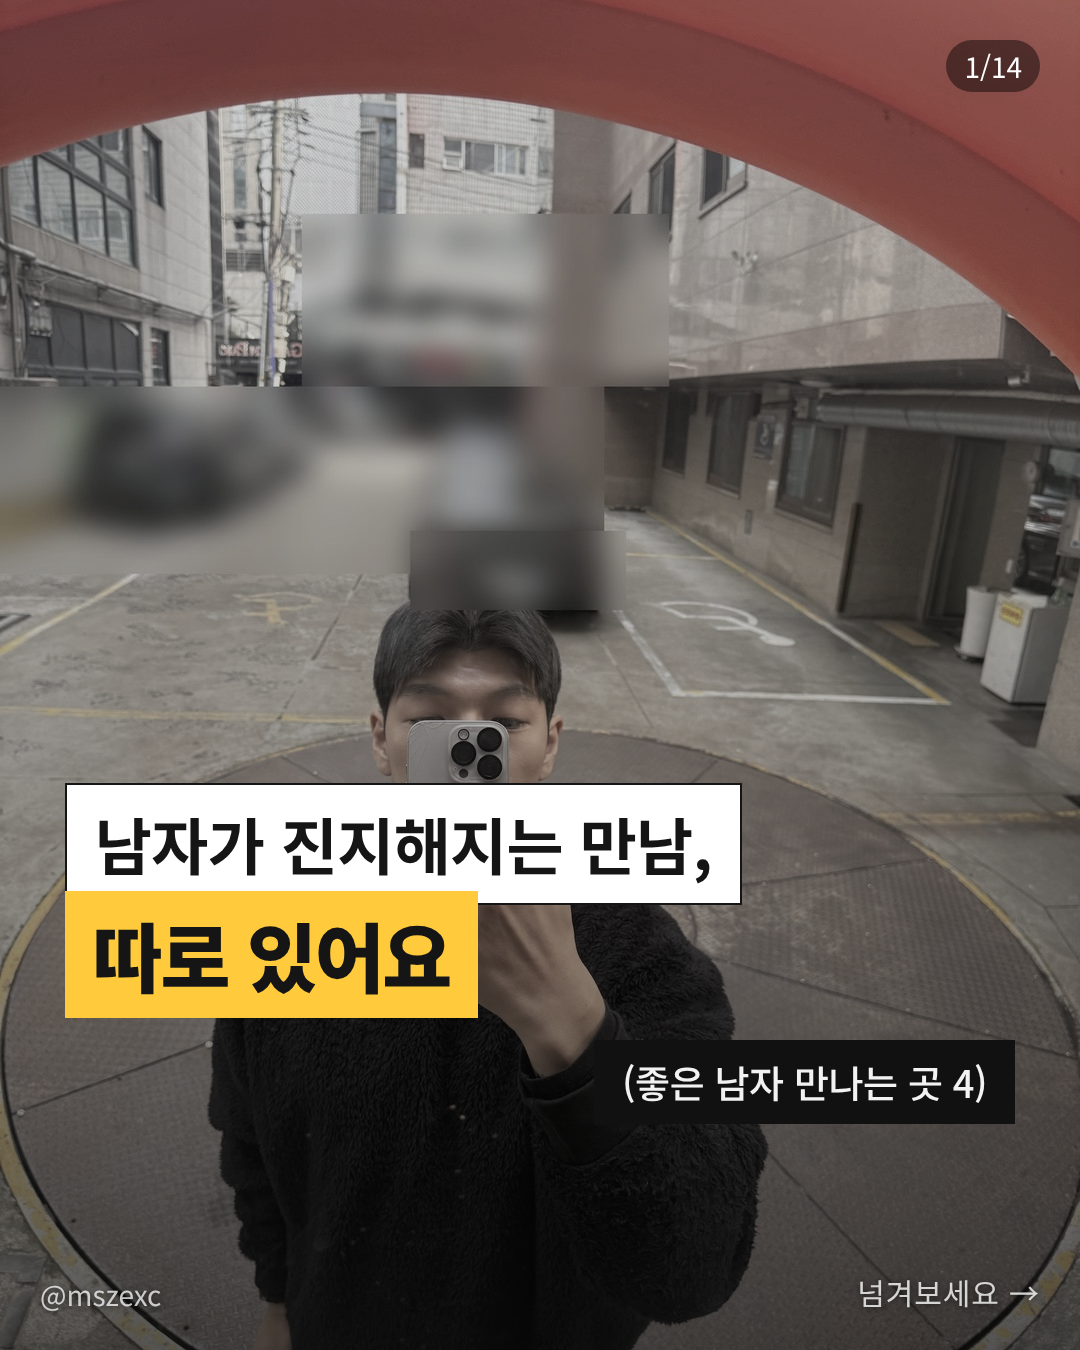
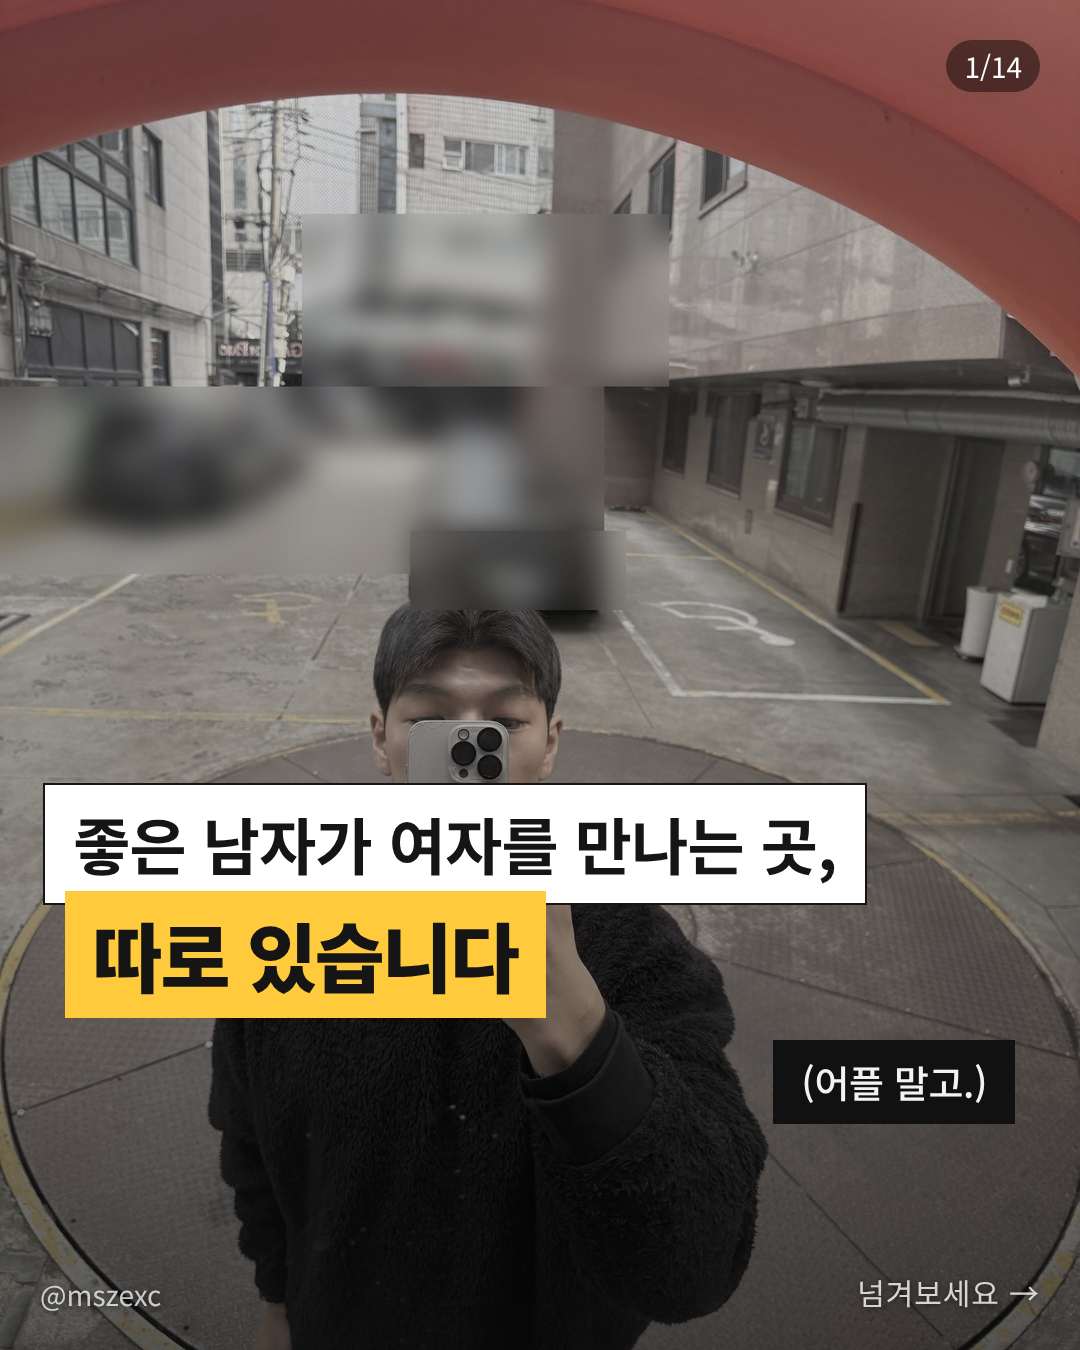
Revert #59 title and text to original
Claude-Session: https://claude.ai/code/session_01J9i5yL8MFhQ5W67Sx3nDW6

Changed region(s): [[0.0306, 0.56, 0.825, 0.7778], [0.5806, 0.7467, 0.9167, 0.84]]

diff --git a/carousel/photo_story/c59.html b/carousel/photo_story/c59.html
@@ -23,16 +23,16 @@
   .phd b { display:block; font-size:30px; color:#6d675e; letter-spacing:.1em; margin-bottom:8px; }
   .shade { position:absolute; left:0; right:0; bottom:0; height:60%; background:linear-gradient(transparent, rgba(0,0,0,.55)); }
 </style></head><body>
-<section class="slide" id="s1"><img class="bg" src="p56/01.jpg" style="inset:0;width:100%;height:100%;object-fit:cover"><div class="shade"></div><div class="bx W" style="top:58%;left:6%;">남자가 진지해지는 만남,</div><div class="bx G" style="top:66%;left:6%;">따로 있어요</div><div class="bx k" style="top:77%;right:6%;">(좋은 남자 만나는 곳 4)</div><div class="num">1/14</div><div class="hd">@mszexc</div><div class="ser">넘겨보세요 →</div></section>
+<section class="slide" id="s1"><img class="bg" src="p56/01.jpg" style="inset:0;width:100%;height:100%;object-fit:cover"><div class="shade"></div><div class="bx W" style="top:58%;left:4%;">좋은 남자가 여자를 만나는 곳,</div><div class="bx G" style="top:66%;left:6%;">따로 있습니다</div><div class="bx k" style="top:77%;right:6%;">(어플 말고.)</div><div class="num">1/14</div><div class="hd">@mszexc</div><div class="ser">넘겨보세요 →</div></section>
 <section class="slide" id="s2"><img class="bg" src="p56g/02.png" style="inset:0;width:100%;height:100%;object-fit:cover;filter:none"><div class="bx w" style="top:36%;left:6%;">좋은 남자는 왜 내 주변에 없을까?</div><div class="bx g" style="top:46%;right:6%;">없는 게 아니라, 다른 곳에 있어요.</div><div class="num">2/14</div><div class="hd">@mszexc</div><div class="ser">남자들끼리 하는 말 #59</div></section>
-<section class="slide" id="s3"><img class="bg" src="p56/03.jpg" style="inset:0;width:100%;height:100%;object-fit:cover"><div class="shade"></div><div class="bx w" style="top:36%;left:8%;">먼저 알아둘 것.</div><div class="bx g" style="top:45%;left:4%;">남자는 자기가 먼저 다가간 관계에 진지해져요.</div><div class="bx k" style="top:55%;right:6%;">(노력해서 시작한 만큼 아껴요.)</div><div class="num">3/14</div><div class="hd">@mszexc</div><div class="ser">남자들끼리 하는 말 #59</div></section>
+<section class="slide" id="s3"><img class="bg" src="p56/03.jpg" style="inset:0;width:100%;height:100%;object-fit:cover"><div class="shade"></div><div class="bx w" style="top:36%;left:8%;">먼저 알아둘 것.</div><div class="bx g" style="top:45%;left:4%;">남자는 직접 다가간 여자에게 진지해져요.</div><div class="bx k" style="top:55%;right:6%;">(쉽게 얻은 건, 쉽게 놓아요.)</div><div class="num">3/14</div><div class="hd">@mszexc</div><div class="ser">남자들끼리 하는 말 #59</div></section>
 <section class="slide" id="s4"><img class="bg" src="p56g/04.png" style="inset:0;width:100%;height:100%;object-fit:cover;filter:none"><div class="bx w" style="top:34%;left:8%;">첫 번째.</div><div class="bx g" style="top:42%;right:6%;">지인 소개</div><div class="bx k" style="top:52%;left:4%;">(친구 얼굴이 걸려 있으면, 남자는 함부로 못 해요.)</div><div class="num">4/14</div><div class="hd">@mszexc</div><div class="ser">남자들끼리 하는 말 #59</div></section>
 <section class="slide" id="s5"><img class="bg" src="p56/05.jpg" style="inset:0;width:100%;height:100%;object-fit:cover"><div class="shade"></div><div class="bx w" style="top:34%;left:8%;">두 번째.</div><div class="bx g" style="top:42%;right:6%;">매주 가는 곳</div><div class="bx k" style="top:52%;left:4%;">(헬스장 · 러닝크루 · 클래스. 같은 사람을 여러 번 보는 곳.)</div><div class="num">5/14</div><div class="hd">@mszexc</div><div class="ser">남자들끼리 하는 말 #59</div></section>
 <section class="slide" id="s6"><img class="bg" src="p56g/06.png" style="inset:0;width:100%;height:100%;object-fit:cover;filter:none"><div class="bx w" style="top:36%;left:8%;">왜냐하면</div><div class="bx g" style="top:45%;left:4%;">남자는 여러 번 본 여자에게 말 걸 용기가 생겨요.</div><div class="bx k" style="top:55%;right:6%;">(처음 본 날엔 대부분 아무 말도 못 해요.)</div><div class="num">6/14</div><div class="hd">@mszexc</div><div class="ser">남자들끼리 하는 말 #59</div></section>
 <section class="slide" id="s7"><img class="bg" src="p56/07.jpg" style="inset:0;width:100%;height:100%;object-fit:cover"><div class="shade"></div><div class="bx w" style="top:34%;left:8%;">세 번째.</div><div class="bx g" style="top:42%;right:6%;">일 · 공부로 만나는 곳</div><div class="bx k" style="top:52%;left:4%;">(스터디 · 세미나 · 업무 미팅. 성실함이 먼저 보여요.)</div><div class="num">7/14</div><div class="hd">@mszexc</div><div class="ser">남자들끼리 하는 말 #59</div></section>
 <section class="slide" id="s8"><img class="bg" src="p56g/08.png" style="inset:0;width:100%;height:100%;object-fit:cover;filter:none"><div class="bx w" style="top:34%;left:8%;">네 번째.</div><div class="bx g" style="top:42%;right:6%;">친구 결혼식</div><div class="bx k" style="top:52%;left:4%;">(남의 결혼식에서, 남자는 자기 결혼을 생각해요.)</div><div class="num">8/14</div><div class="hd">@mszexc</div><div class="ser">남자들끼리 하는 말 #59</div></section>
 <section class="slide" id="s9"><img class="bg" src="p56/09.jpg" style="inset:0;width:100%;height:100%;object-fit:cover"><div class="shade"></div><div class="bx w" style="top:32%;left:6%;">남자들끼리는 이렇게 말해요.</div><div class="bx q" style="top:42%;left:4%;">&quot;거기 매주 오는 그분 있잖아. 오늘은 말 걸어볼까?&quot;</div><div class="bx k" style="top:53%;right:6%;">(남자는 이 말을 몇 주씩 미뤄요.)</div><div class="num">9/14</div><div class="hd">@mszexc</div><div class="ser">남자들끼리 하는 말 #59</div></section>
-<section class="slide" id="s10"><img class="bg" src="p56g/10.png" style="inset:0;width:100%;height:100%;object-fit:cover;filter:none"><div class="bx w" style="top:38%;left:8%;">어플은 어떨까요?</div><div class="bx g" style="top:47%;left:4%;">좋은 사람도 있어요. 다만 시간이 더 걸려요.</div><div class="bx k" style="top:57%;left:4%;">(사진 몇 장으로 넘기는 곳이라, 진지해질 틈이 적어요.)</div><div class="num">10/14</div><div class="hd">@mszexc</div><div class="ser">남자들끼리 하는 말 #59</div></section>
+<section class="slide" id="s10"><img class="bg" src="p56g/10.png" style="inset:0;width:100%;height:100%;object-fit:cover;filter:none"><div class="bx w" style="top:38%;left:8%;">반대로</div><div class="bx g" style="top:47%;right:6%;">좋은 남자도 진지해지기 어려운 곳.</div><div class="bx k" style="top:57%;left:4%;">(어플 · 헌팅 술집. 서로를 &quot;고르러&quot; 오는 곳이에요.)</div><div class="num">10/14</div><div class="hd">@mszexc</div><div class="ser">남자들끼리 하는 말 #59</div></section>
 <section class="slide" id="s11"><img class="bg" src="p56/11.jpg" style="inset:0;width:100%;height:100%;object-fit:cover;filter:saturate(.85) brightness(.9)"><div class="shade"></div><div class="bx w" style="top:34%;left:6%;">그리고 장소보다 중요한 것.</div><div class="bx g" style="top:44%;right:6%;">같은 시간, 같은 곳에, 꾸준히.</div><div class="bx k" style="top:54%;left:6%;">(남자에게 &quot;또 보는 사람&quot;이 되는 거예요.)</div><div class="num">11/14</div><div class="hd">@mszexc</div><div class="ser">남자들끼리 하는 말 #59</div></section>
 <section class="slide" id="s12"><img class="bg" src="p56g/12.png" style="inset:0;width:100%;height:100%;object-fit:cover;filter:none"><div class="bx w" style="top:36%;left:8%;">눈이 마주치면</div><div class="bx g" style="top:45%;right:6%;">먼저 한 번 웃어 주세요.</div><div class="bx k" style="top:55%;left:4%;">(그 한 번이 남자에게는, 말 걸어도 된다는 허락이에요.)</div><div class="num">12/14</div><div class="hd">@mszexc</div><div class="ser">남자들끼리 하는 말 #59</div></section>
 <section class="slide" id="s13"><img class="bg" src="p56/13.jpg" style="inset:0;width:100%;height:100%;object-fit:cover;filter:saturate(.85) brightness(.9)"><div class="shade"></div><div class="bx w" style="top:36%;left:6%;">말은 남자가 먼저 걸게 두세요.</div><div class="bx g" style="top:46%;right:6%;">그래야 남자가 노력해요.</div><div class="num">13/14</div><div class="hd">@mszexc</div><div class="ser">남자들끼리 하는 말 #59</div></section>

diff --git a/carousel/photo_story/stories_56.py b/carousel/photo_story/stories_56.py
@@ -5,36 +5,36 @@ from psgen import EBOOK
 from hashtags import tags
 END = '📕 남자가 하는 말의 뜻은 「남자들끼리 하는 말」 1·2권에 적었습니다.\n프로필 링크에서 무료로 받아보세요.\n\n'
 
-T56 = '남자가 진지해지는 만남, 따로 있어요'  # 11/15 검토: 「남자가」로 시작 · 원래 「좋은 남자가 여자를 만나는 곳, 따로 있습니다」
+T56 = '좋은 남자가 여자를 만나는 곳, 따로 있습니다'
 C56 = [
- [('W', '남자가 진지해지는 만남,', 52, 6), ('G', '따로 있어요', 60, 6), ('k', '(좋은 남자 만나는 곳 4)', 71, 'r')],
+ [('W', '좋은 남자가 여자를 만나는 곳,', 52, 4), ('G', '따로 있습니다', 60, 6), ('k', '(어플 말고.)', 71, 'r')],
  [('w', '좋은 남자는 왜 내 주변에 없을까?', 36, 6), ('g', '없는 게 아니라, 다른 곳에 있어요.', 46, 'r')],
- [('w', '먼저 알아둘 것.', 36, 8), ('g', '남자는 자기가 먼저 다가간 관계에 진지해져요.', 45, 4), ('k', '(노력해서 시작한 만큼 아껴요.)', 55, 'r')],
+ [('w', '먼저 알아둘 것.', 36, 8), ('g', '남자는 직접 다가간 여자에게 진지해져요.', 45, 4), ('k', '(쉽게 얻은 건, 쉽게 놓아요.)', 55, 'r')],
  [('w', '첫 번째.', 34, 8), ('g', '지인 소개', 42, 'r'), ('k', '(친구 얼굴이 걸려 있으면, 남자는 함부로 못 해요.)', 52, 4)],
  [('w', '두 번째.', 34, 8), ('g', '매주 가는 곳', 42, 'r'), ('k', '(헬스장 · 러닝크루 · 클래스. 같은 사람을 여러 번 보는 곳.)', 52, 4)],
  [('w', '왜냐하면', 36, 8), ('g', '남자는 여러 번 본 여자에게 말 걸 용기가 생겨요.', 45, 4), ('k', '(처음 본 날엔 대부분 아무 말도 못 해요.)', 55, 'r')],
  [('w', '세 번째.', 34, 8), ('g', '일 · 공부로 만나는 곳', 42, 'r'), ('k', '(스터디 · 세미나 · 업무 미팅. 성실함이 먼저 보여요.)', 52, 4)],
  [('w', '네 번째.', 34, 8), ('g', '친구 결혼식', 42, 'r'), ('k', '(남의 결혼식에서, 남자는 자기 결혼을 생각해요.)', 52, 4)],
  [('w', '남자들끼리는 이렇게 말해요.', 32, 6), ('q', '"거기 매주 오는 그분 있잖아. 오늘은 말 걸어볼까?"', 42, 4), ('k', '(남자는 이 말을 몇 주씩 미뤄요.)', 53, 'r')],
- [('w', '어플은 어떨까요?', 38, 8), ('g', '좋은 사람도 있어요. 다만 시간이 더 걸려요.', 47, 4), ('k', '(사진 몇 장으로 넘기는 곳이라, 진지해질 틈이 적어요.)', 57, 4)],
+ [('w', '반대로', 38, 8), ('g', '좋은 남자도 진지해지기 어려운 곳.', 47, 'r'), ('k', '(어플 · 헌팅 술집. 서로를 "고르러" 오는 곳이에요.)', 57, 4)],
  [('w', '그리고 장소보다 중요한 것.', 34, 6), ('g', '같은 시간, 같은 곳에, 꾸준히.', 44, 'r'), ('k', '(남자에게 "또 보는 사람"이 되는 거예요.)', 54, 6)],
  [('w', '눈이 마주치면', 36, 8), ('g', '먼저 한 번 웃어 주세요.', 45, 'r'), ('k', '(그 한 번이 남자에게는, 말 걸어도 된다는 허락이에요.)', 55, 4)],
  [('w', '말은 남자가 먼저 걸게 두세요.', 36, 6), ('g', '그래야 남자가 노력해요.', 46, 'r')],
  [('w', '이것만 기억하세요.', 30, 8), ('g', '좋은 남자는 찾는 게 아니라, 다가오게 두는 거예요.', 39, 4), EBOOK],
 ]
-CAP56 = f'''남자가 진지해지는 만남, 따로 있어요.
-좋은 남자는 없는 게 아니라, 다른 곳에 있어요.
+CAP56 = f'''좋은 남자가 여자를 만나는 곳, 따로 있습니다.
+어플 말고요.
 
-남자는 자기가 먼저 다가간 관계에 진지해져요.
-노력해서 시작한 만큼 아끼거든요.
+좋은 남자는 없는 게 아니라, 다른 곳에 있어요.
+그리고 남자는 직접 다가간 여자에게 진지해져요.
 
 ① 지인 소개 · 친구 얼굴이 걸려 있으면 함부로 못 해요
 ② 매주 가는 곳 · 여러 번 본 여자에게 말 걸 용기가 생겨요
 ③ 일 · 공부로 만나는 곳 · 성실함이 먼저 보여요
 ④ 친구 결혼식 · 남의 결혼식에서 자기 결혼을 생각해요
 
-어플에도 좋은 사람은 있어요.
-다만 사진 몇 장으로 넘기는 곳이라, 진지해지기까지 시간이 더 걸려요.
+반대로 어플 · 헌팅 술집은 좋은 남자도 진지해지기 어려워요.
+서로를 "고르러" 오는 곳이거든요.
 
 💡
 장소보다 중요한 건 같은 시간, 같은 곳에, 꾸준히.

diff --git a/carousel/plan90/plan90.md b/carousel/plan90/plan90.md
@@ -83,7 +83,7 @@
 - 11/15(일) 21시 [릴스] R8 남자의 말이 줄어들 때, 여자가 꼭 알아야 할 것 · 캐러셀 #47 「남자의 말이 줄어들 때」와 같은 소재
 - 11/15(일) 18~19시 [진심] #68 잘해주는 남자 vs 좋아하는 남자, 딱 한 끗 차이 — #58 완성 · 📸 11/15 새 사진 8장 + 🎨 그래픽 6장 · 11/15 #59와 순서 바꿈 · 원래 칸 「헤어지기 직전의 남자가 슬쩍 미루는 것들」은 예비로 · ✅ 업로드
 - 11/16(월) 11~12시 [신호] #69 남자가 식으면, "우리"가 "나"로 바뀝니다
-- 11/16(월) 18~19시 [진심] #70 남자가 진지해지는 만남, 따로 있어요 — #59 완성 · 새 소재(혼자인 여자) · 11/15 #58과 순서 바꿈 (세 번째) · 11/15 검토: 제목 「남자가」로 · 3장 중의적 표현 · 10장 어플 단정 고침
+- 11/16(월) 18~19시 [진심] #70 좋은 남자가 여자를 만나는 곳, 따로 있습니다 — #59 완성 · 새 소재(혼자인 여자) · 11/15 #58과 순서 바꿈 (세 번째)
 - 11/17(화) 11~12시 [진심] #71 남자가 당신을 부모님께 보여주고 싶을 때 하는 행동 — 11/3 반어 → 진심
 - 11/17(화) 21시 [릴스] R27 남자가 읽고 답 안 하다가, 다시 연락하는 순간 · 대본 완성 · R4(63만 · 공유 1.1만) 다음 편 · 화요일 릴스 시험(11/17 · 11/24)
 - 11/17(화) 18~19시 [진심] #72 남자가 연애 3개월 차에 몰래 정하는 것 — #60 완성 · 새 소재 · 원래 칸 「남자가 굳이 전 여자친구 얘기를 꺼내는 이유」은 예비로 · 11/15 제목 바꿈(단정 → 나만 모르는) · 원래 「연애 3개월 차, 여기서 갈립니다」
